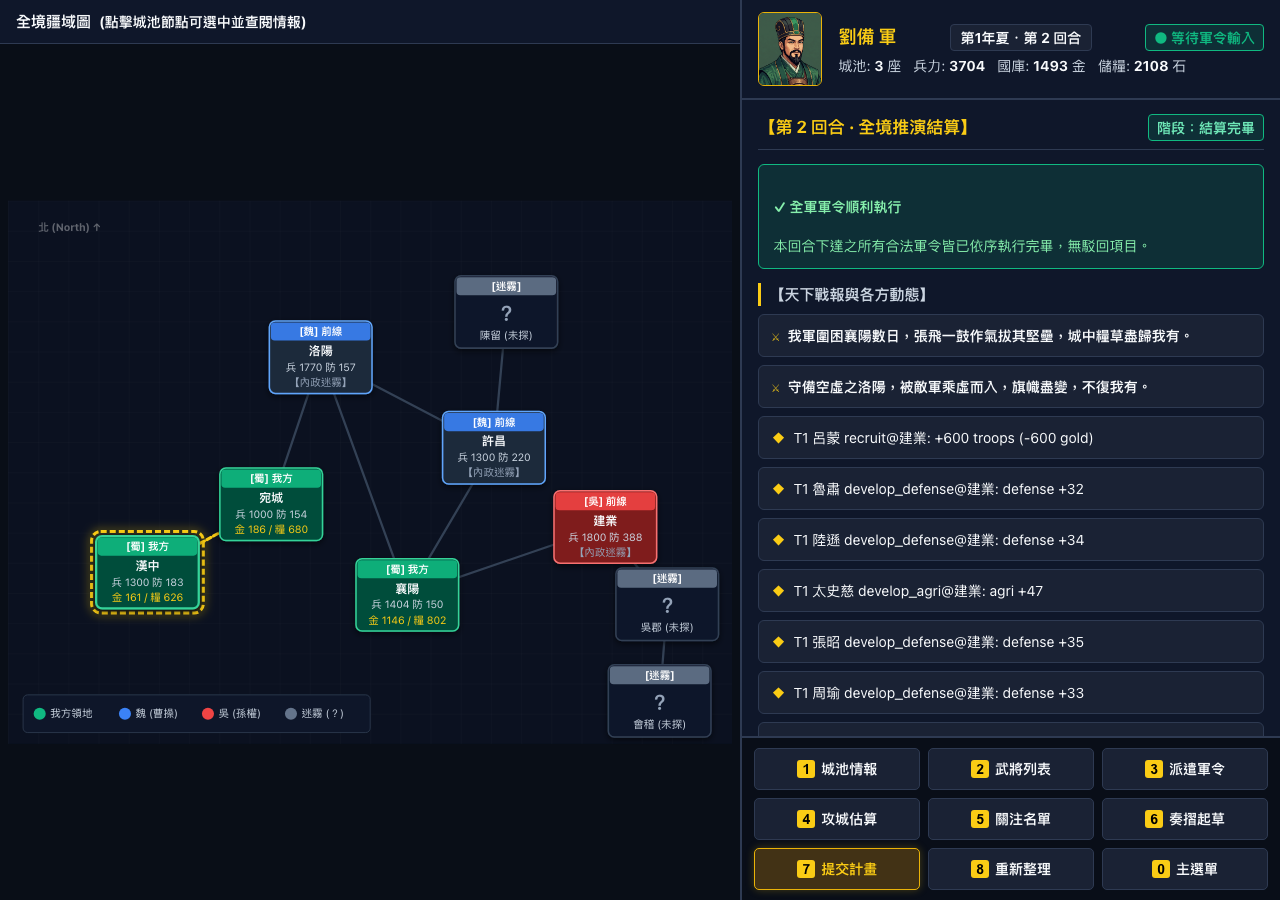
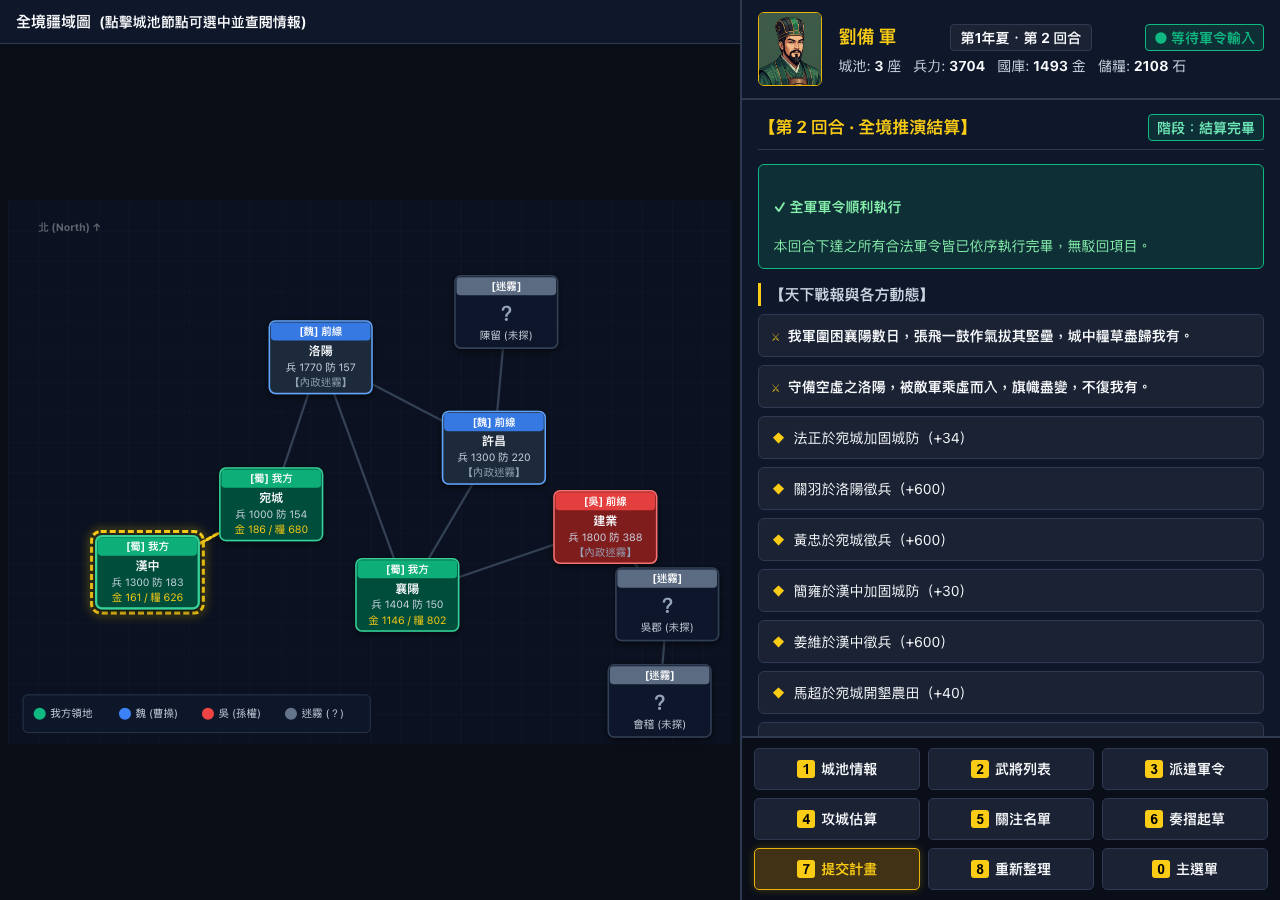
web: plain-Chinese turn report; own routine actions listed, other factions summarised

diff --git a/src/slg/web/static/panels.js b/src/slg/web/static/panels.js
@@ -1019,7 +1019,7 @@ export function renderSettlement(container, status, onProceedNextTurn) {
   }
 
   // Events (事件逐條顯示)
-  const events = status.events || [];
+  const events = status.report || status.events || [];
   html += `
     <div class="section-sub-block">
       <h4 class="sub-block-title">【天下戰報與各方動態】</h4>

diff --git a/src/slg/web/payload.py b/src/slg/web/payload.py
@@ -113,3 +113,36 @@ def story_lines(events, state: GameState, faction_id: str, limit: int = 12) -> l
             fname = state.faction(ev.faction_id).name
             lines.append(narrative.render_event("defect", ev.turn, officer=name_of(ev.officer_id), faction=fname))
     return lines[-limit:]
+
+
+_ROUTINE = {"develop_agri": "開墾農田", "develop_commerce": "擴建商市", "develop_defense": "加固城防",
+            "recruit": "徵兵", "move": "移駐", "rest": "休整"}
+
+
+def report_lines(events, state: GameState, faction_id: str) -> list[str]:
+    """Plain-Chinese lines for routine actions: the player's own one by one, other factions as one summary each."""
+    import re
+
+    def name_of(oid):
+        o = state.officers.get(oid)
+        return o.name if o else oid
+
+    def city_name(cid):
+        c = state.cities.get(cid)
+        return c.name if c else cid
+
+    own, others = [], {}
+    for ev in relevant_events(events, state, faction_id):
+        label = _ROUTINE.get(ev.action)
+        if label is None:
+            continue
+        if ev.faction_id == faction_id:
+            num = re.search(r"[+-]?\d+", ev.detail or "")
+            extra = f"（{num.group()}）" if num and ev.action != "rest" else ""
+            own.append(f"{name_of(ev.officer_id)}於{city_name(ev.city_id)}{label}{extra}")
+        else:
+            others.setdefault(ev.faction_id, set()).add(city_name(ev.city_id))
+    lines = list(own)
+    for fid, cities in sorted(others.items()):
+        lines.append(f"{state.faction(fid).name}在{'、'.join(sorted(cities))}整軍經武、興修內政。")
+    return lines

diff --git a/tests/test_story_lines.py b/tests/test_story_lines.py
@@ -3,7 +3,7 @@ from dataclasses import replace
 
 from slg.engine.initial_state import build_initial_state
 from slg.schema import ResolutionEvent
-from slg.web.payload import story_lines
+from slg.web.payload import report_lines, story_lines
 
 
 def _siege(state, faction, officer, city, captured, defender):
@@ -39,6 +39,21 @@ class StoryLinesTests(unittest.TestCase):
     def test_routine_actions_are_not_narrated(self):
         ev = [ResolutionEvent(1, "xiahou_dun", "faction_1", "develop_agri", "xuchang", "ok")]
         self.assertEqual(story_lines(ev, self.state, "faction_1"), [])
+
+    def test_report_lists_own_routine_actions_and_summarises_others(self):
+        ev = [
+            ResolutionEvent(1, "xiahou_dun", "faction_1", "recruit", "xuchang", "+600 troops (-600 gold)"),
+            ResolutionEvent(1, "xiahou_yuan", "faction_1", "rest", "xuchang", "rest"),
+            ResolutionEvent(1, "zhou_yu", "faction_3", "develop_defense", "jianye", "defense +32"),
+            ResolutionEvent(1, "lu_su", "faction_3", "develop_agri", "jianye", "agri +47"),
+        ]
+        # faction_3's jianye borders xiangyang (faction_1's), so it is visible to faction_1
+        lines = report_lines(ev, self.state, "faction_1")
+        self.assertEqual(lines[0], "夏侯惇於許昌徵兵（+600）")
+        self.assertEqual(lines[1], "夏侯淵於許昌休整")
+        self.assertEqual(len(lines), 3)
+        self.assertIn("孫權在建業", lines[2])
+        self.assertNotIn("recruit", "".join(lines))
 
 
 if __name__ == "__main__":

diff --git a/src/slg/web/session.py b/src/slg/web/session.py
@@ -11,7 +11,7 @@ from ..engine.initial_state import build_initial_state, resolve_scenario
 from ..engine.resolution import estimate_siege_ratio
 from ..schema import AgentDecision, CAST_LIMIT, FactionPlan
 from .backends import make_ai_agent
-from .payload import state_payload, story_lines
+from .payload import report_lines, state_payload, story_lines
 
 
 class PlanError(ValueError):
@@ -112,14 +112,15 @@ class Session:
     def status(self) -> dict:
         with self.lock:
             v = self.view if self.phase == "awaiting_input" else None
-            story = []
+            story, report = [], []
             if v:
                 turn = self.game.state.turn
                 prev = [e for e in self.game.events if e.turn == turn - 1] + [
                     i for i in self.game.incidents if i.turn == turn - 1]
                 story = story_lines(prev, self.game.state, self.player_faction)
+                report = report_lines(prev, self.game.state, self.player_faction)
             return {"phase": self.phase, "turn": self.game.state.turn, "events": list(v.events) if v else [],
-                    "story": story,
+                    "story": story, "report": report,
                     "feedback": list(v.feedback) if v else [], "winner": self.winner, "error": self.error,
                     "timeouts": self.timeouts}
 
